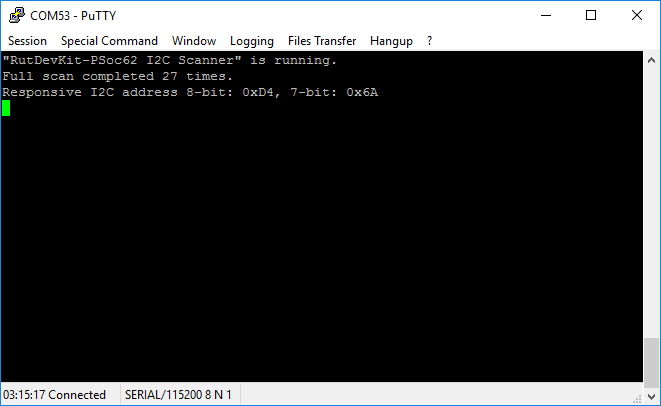
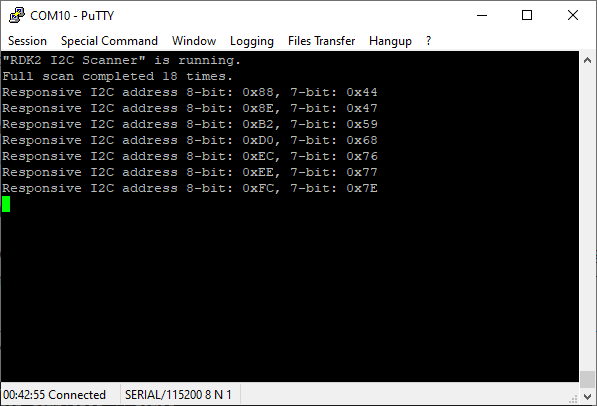
ReadMe.md update.

diff --git a/README.md b/README.md
@@ -1,4 +1,4 @@
-# RutDevKit-PSoC62 I2C Scanner
+# RDK2 I2C Scanner
 
 Rutronik Development Kit Programmable System-on-Chip CY8C6245AZI-S3D72 "I2C Scanner" Application. 
 
@@ -6,11 +6,16 @@ This application is used to find all the devices connected to the I2C.
 
  <img src="images/rutdevkit_model.png" style="zoom:20%;" />
 
+## Requirements
+
+- [ModusToolbox® software](https://www.infineon.com/cms/en/design-support/tools/sdk/modustoolbox-software/) v3.0
+
 ### Using the code example with a ModusToolbox IDE:
 
 1. Import the project: **File** > **Import...** > **General** > **Existing Projects into Workspace** > **Next**.
-2. Select the directory where **"RutDevKit-PSoC62_I2C_Scanner"** resides and click  **Finish**.
-3. Select and build the project **Project ** > **Build Project**.
+2. Select the directory where **"RDK2_I2C_Scanner"** resides and click  **Finish**.
+3. Update libraries using  a **"Library Manager"** tool.
+4. Select and build the project **Project ** > **Build Project**.
 
 ### Operation
 
@@ -20,7 +25,7 @@ The application checks all the 127 addresses every second and reports all the de
 
 ### Debugging
 
-If you successfully have imported the application, the debug configurations are already prepared to use with a the KitProg3, MiniProg4, or J-link. Open the ModusToolbox perspective and find the **Quick Panel**. Click on the desired debug launch configuration and wait until the programming completes and debug process starts.
+If you successfully have imported the application, the debug configurations are already prepared to use with a the KitProg3, MiniProg4, or J-link. Open the ModusToolbox perspective and find the **Quick Panel**. Click on the desired debug launch configuration and wait until the programming completes and debugging process starts.
 
 <img src="images/i2c_scanner_debug_start.png" style="zoom:100%;" />
 
